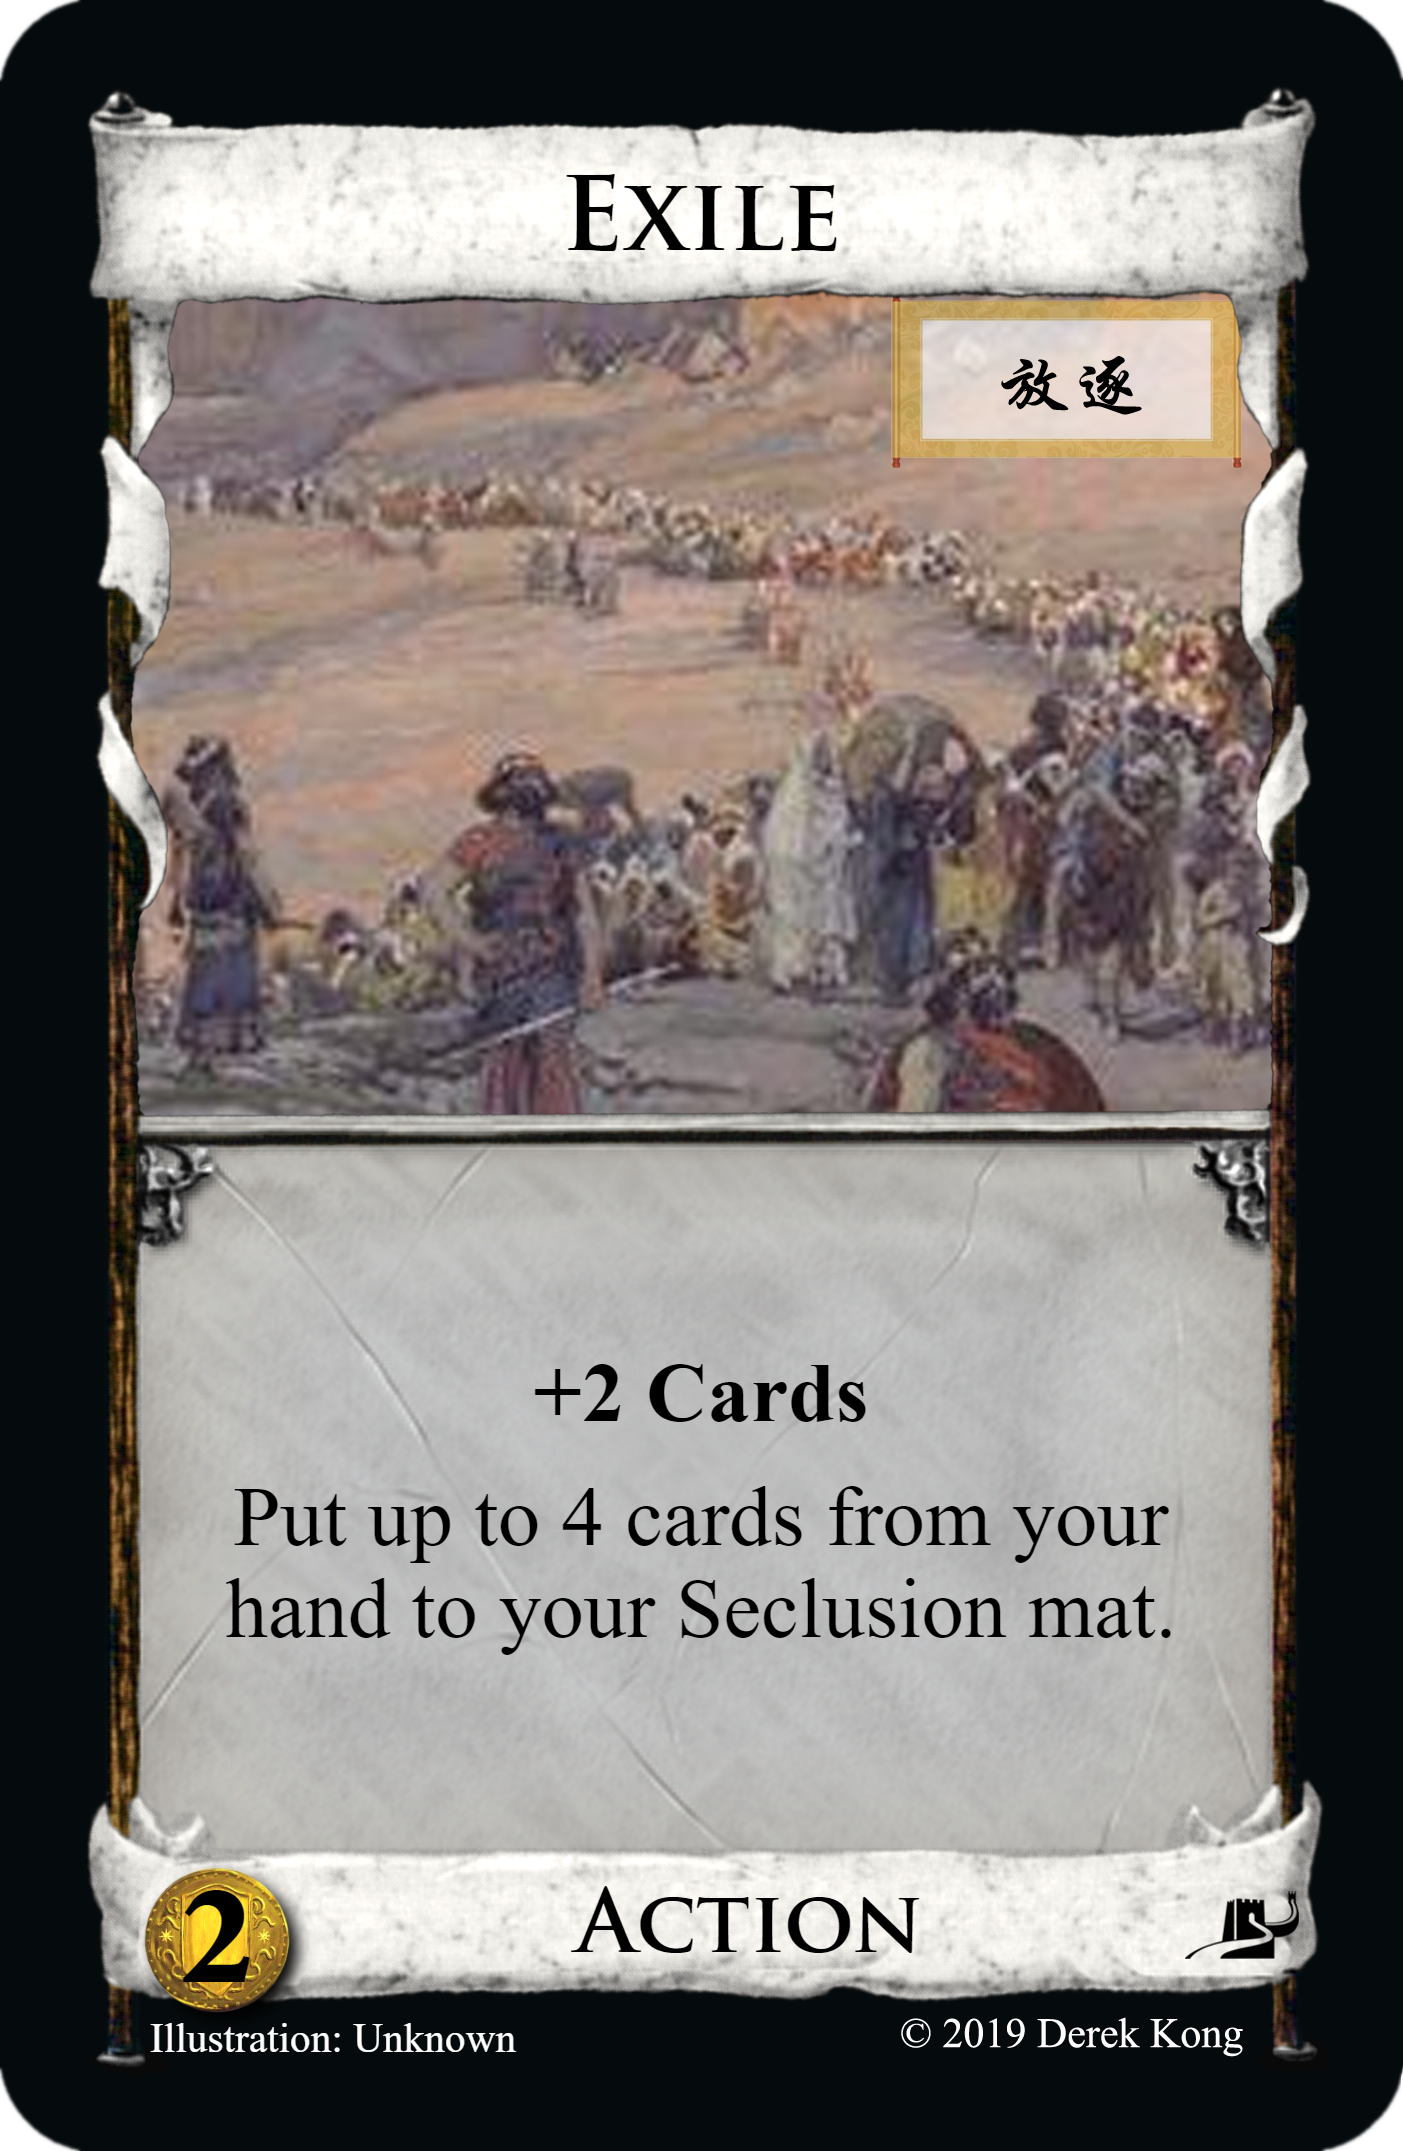
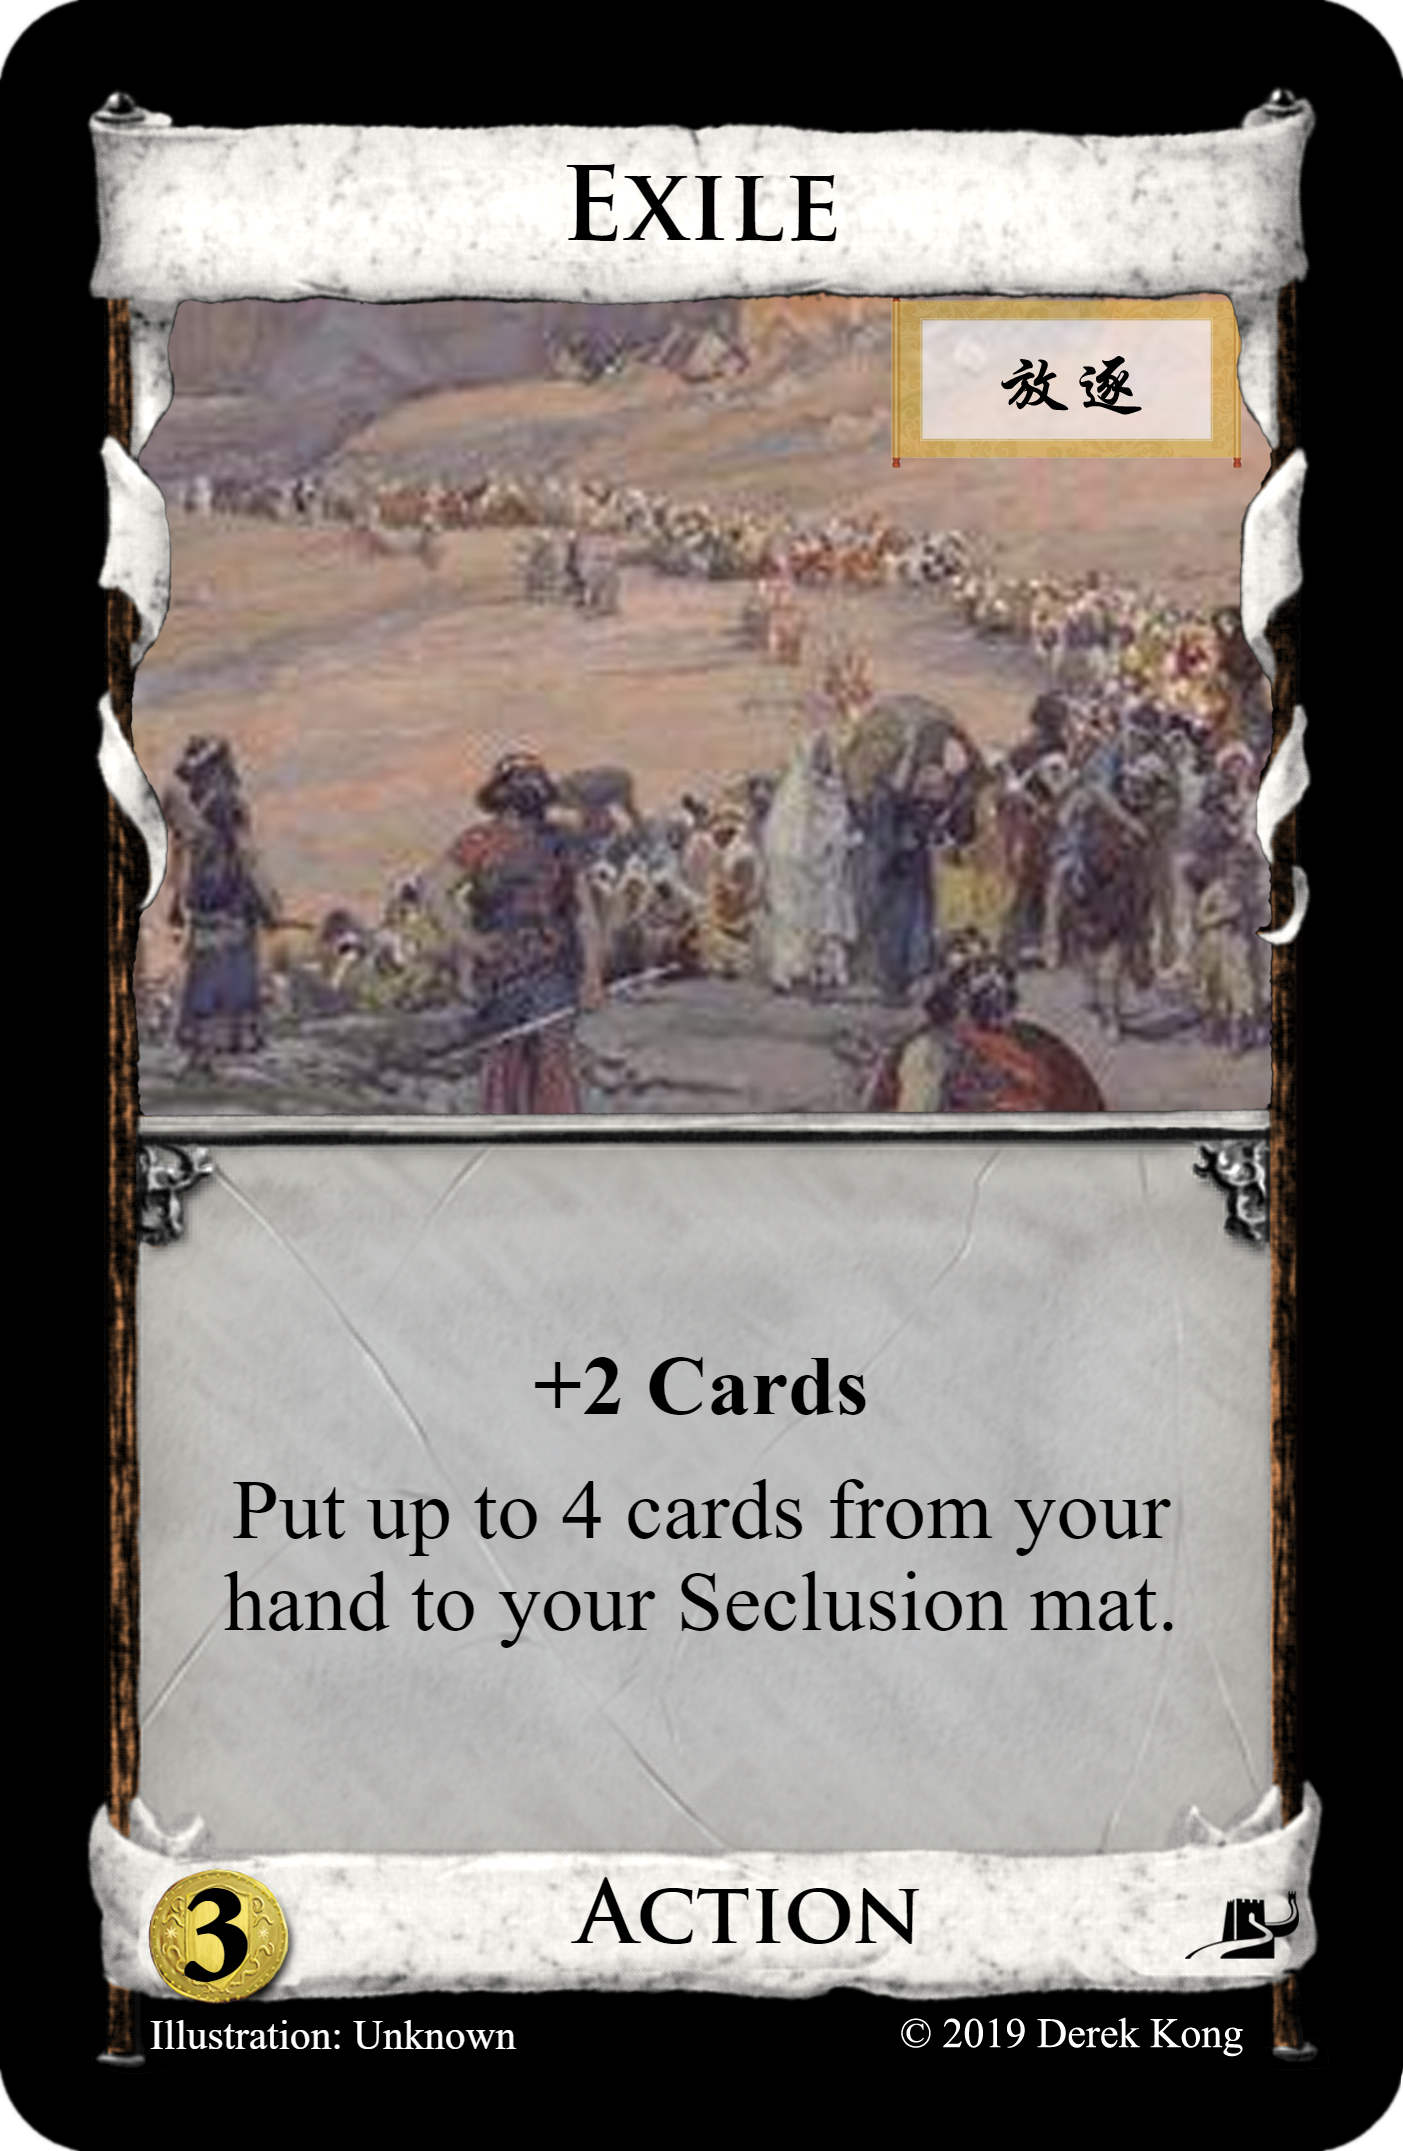
#0145 Dominion prices fix; add several card descriptions to cardlist

diff --git a/src/main/java/com/cosine/cosgame/dominion/Card.java b/src/main/java/com/cosine/cosgame/dominion/Card.java
@@ -455,9 +455,6 @@ public class Card {
 		// Memorials for Victory
 		if (types[INDEX_VICTORY]) {
 			int x = buff.getBuff(Buff.MEMORIALBUYVICTORY);
-			if (name.equals("Province") || name.equals("Colony")) {
-				x = x*2;
-			}
 			if (x == 1) {
 				log(p.getName() + " receives a memorial token", 1);
 				p.addMemorial(1);

diff --git a/src/main/java/com/cosine/cosgame/dominion/oriental/Exile.java b/src/main/java/com/cosine/cosgame/dominion/oriental/Exile.java
@@ -10,7 +10,7 @@ public class Exile extends Card{
 		this.image = "/image/Dominion/cards/Oriental/Exile.png";
 		this.types[INDEX_ACTION] = true;
 		this.card = 2;
-		this.price = 2;
+		this.price = 3;
 	}
 	
 	public Ask play() {

diff --git a/src/main/java/com/cosine/cosgame/dominion/oriental/FieldReaper.java b/src/main/java/com/cosine/cosgame/dominion/oriental/FieldReaper.java
@@ -11,7 +11,7 @@ public class FieldReaper extends Card{
 		this.types[INDEX_ACTION] = true;
 		this.buy = 1;
 		this.coin = 2;
-		this.price = 5;
+		this.price = 4;
 	}
 	
 	public int inPlay() {

diff --git a/src/main/java/com/cosine/cosgame/dominion/list/ExpansionIntro.java b/src/main/java/com/cosine/cosgame/dominion/list/ExpansionIntro.java
@@ -34,5 +34,4 @@ public class ExpansionIntro {
 		cards.add(singleCard);
 	}
 	
-	
 }
